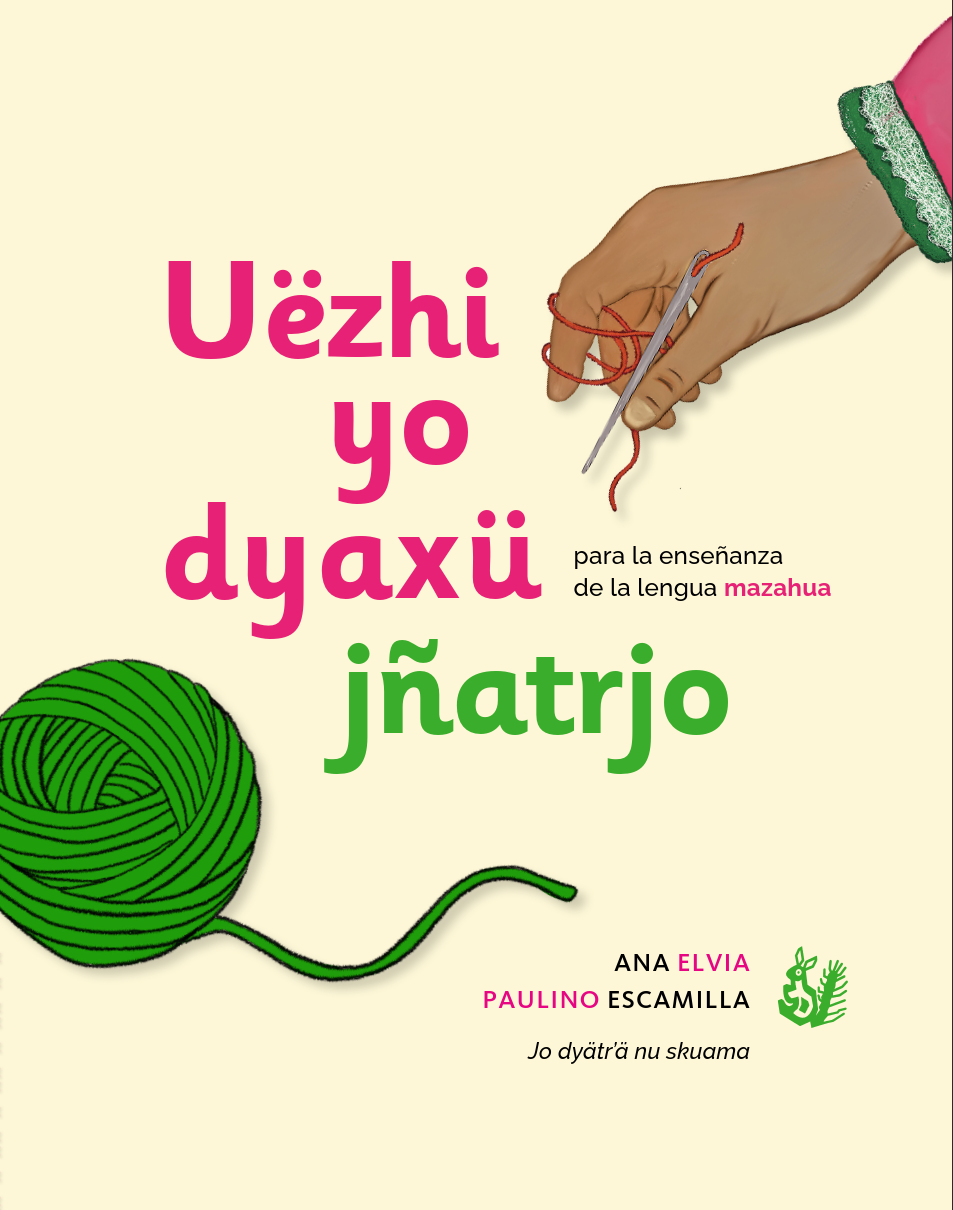
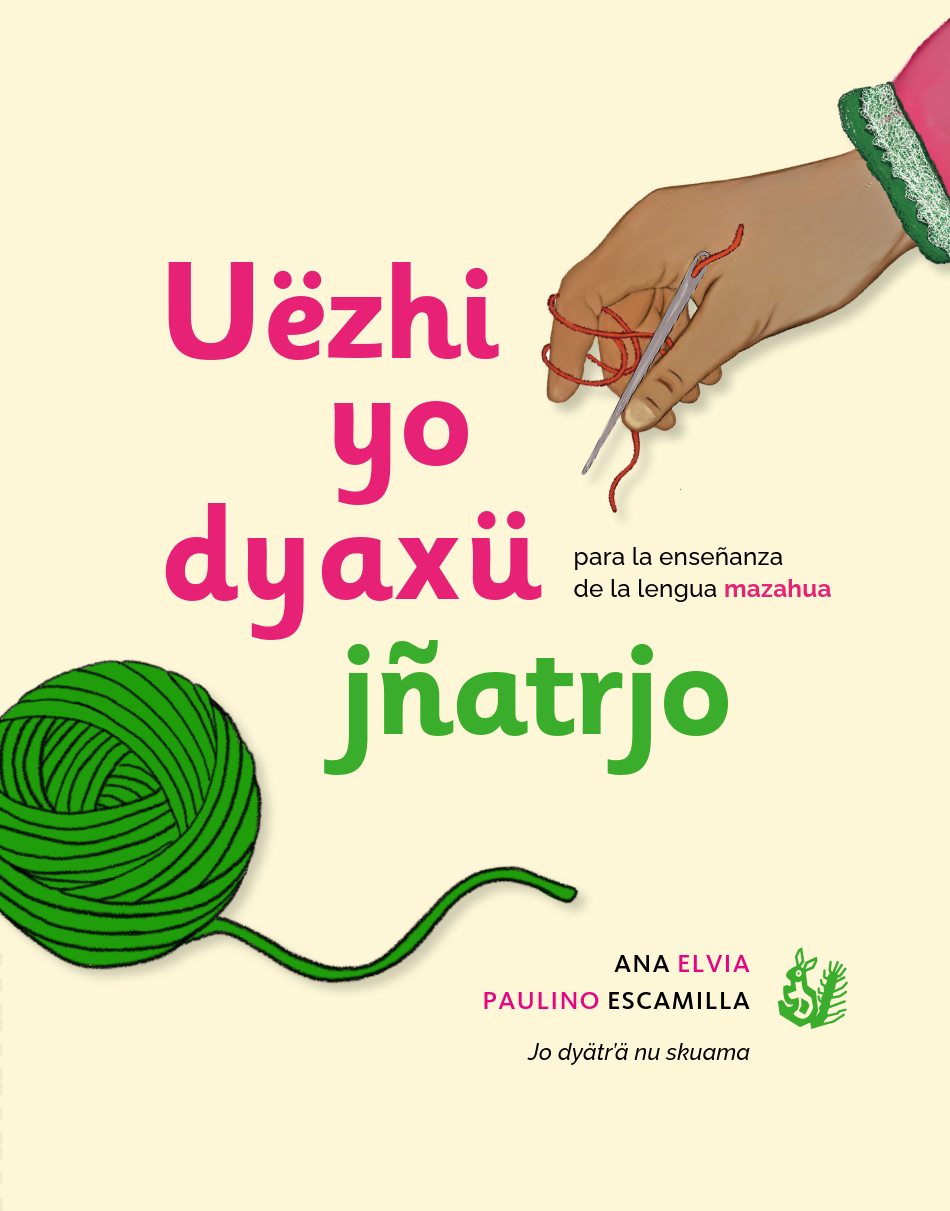
fix(sopita): add instructions as bullets

diff --git a/pages/1_🍲_Sopita.py b/pages/1_🍲_Sopita.py
@@ -353,11 +353,14 @@ def _find_placement(
 # ---------------------------------------------------------------------------
 
 
-st.title("📖 Sopa de letras")
-st.caption(
-    "Encuentra las palabras escondidas en el tablero. Haz clic en la primera "
-    "y última letra de cada palabra. Las palabras pueden ir en horizontal, "
-    "vertical o en diagonal."
+st.title("🍲 Sopa de letras")
+st.caption("Encuentra las palabras escondidas en el tablero.")
+
+instructions = st.expander("Instrucciones")
+instructions.write(
+    """
+    - Haz clic en la **primera** y **última** letra de cada palabra
+    - Las palabras pueden ir en horizontal, vertical o en diagonal"""
 )
 
 # --- Barra lateral con controles ------------------------------------------------
